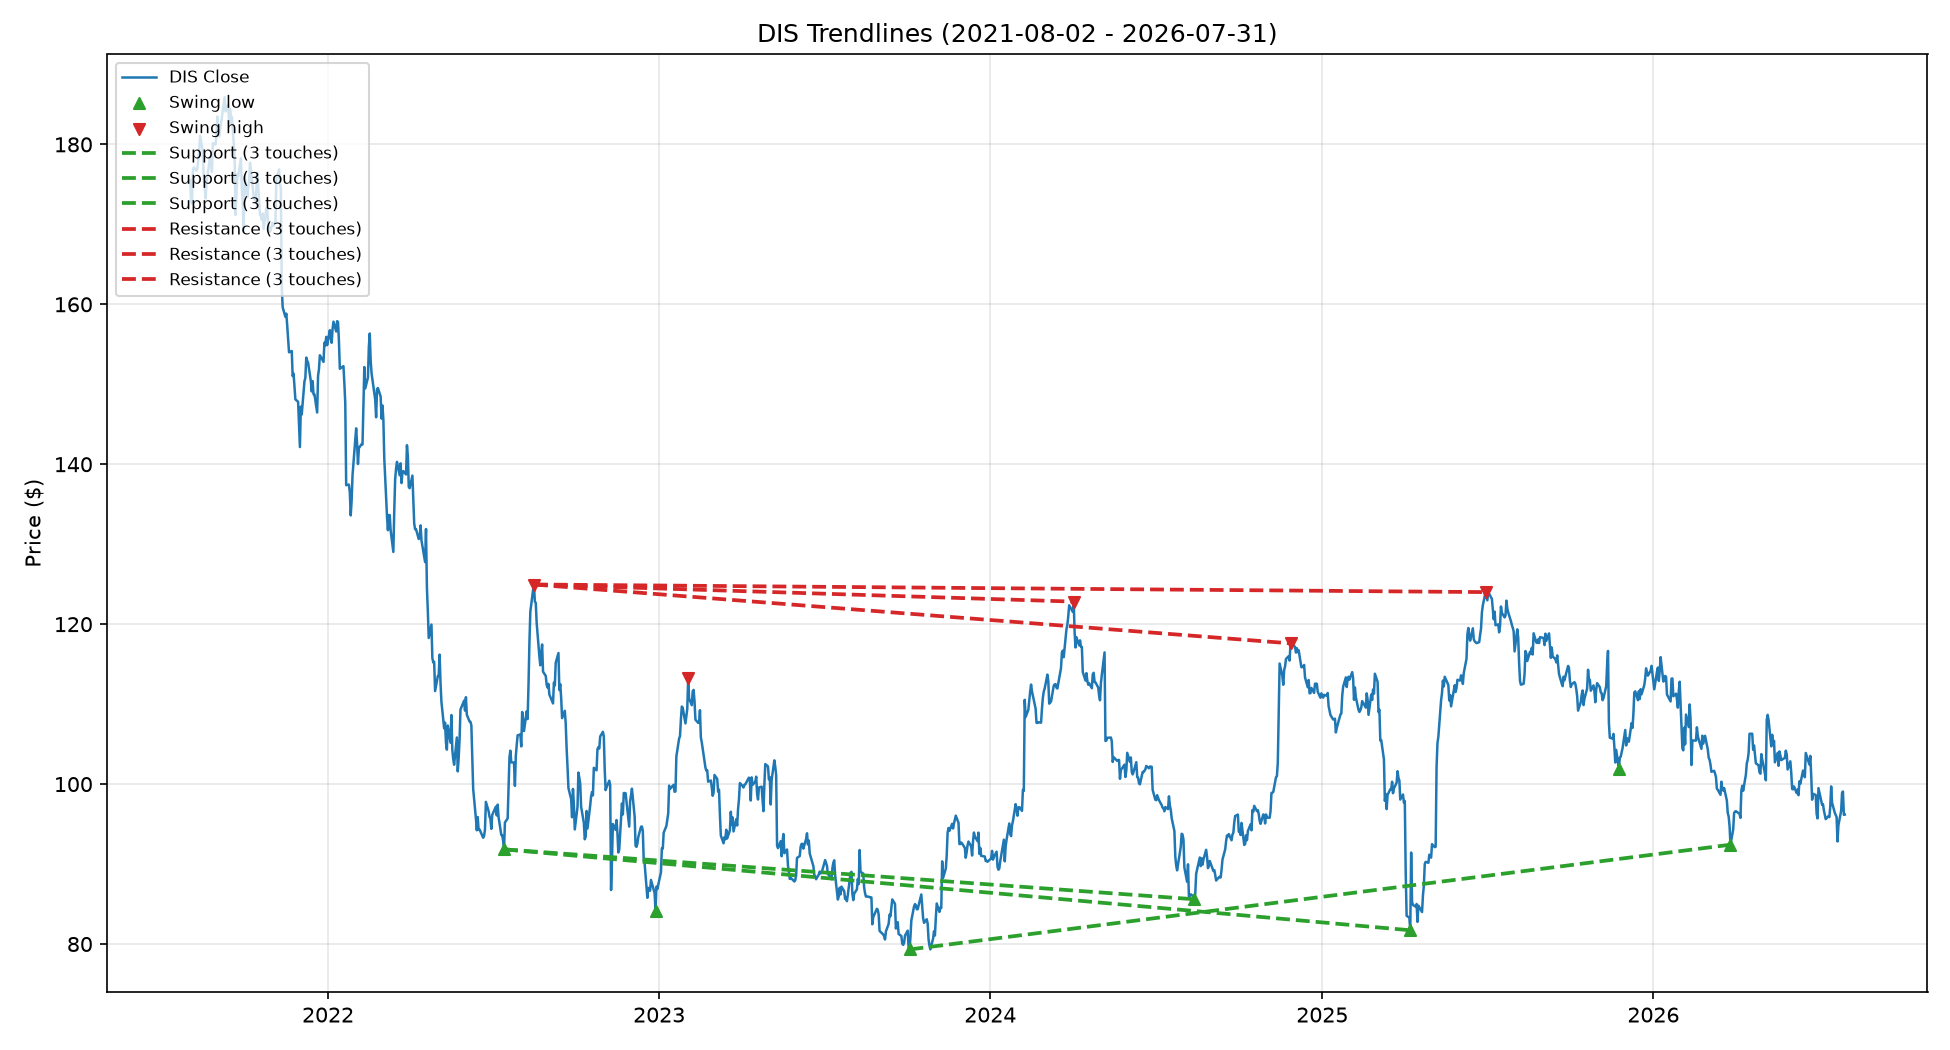
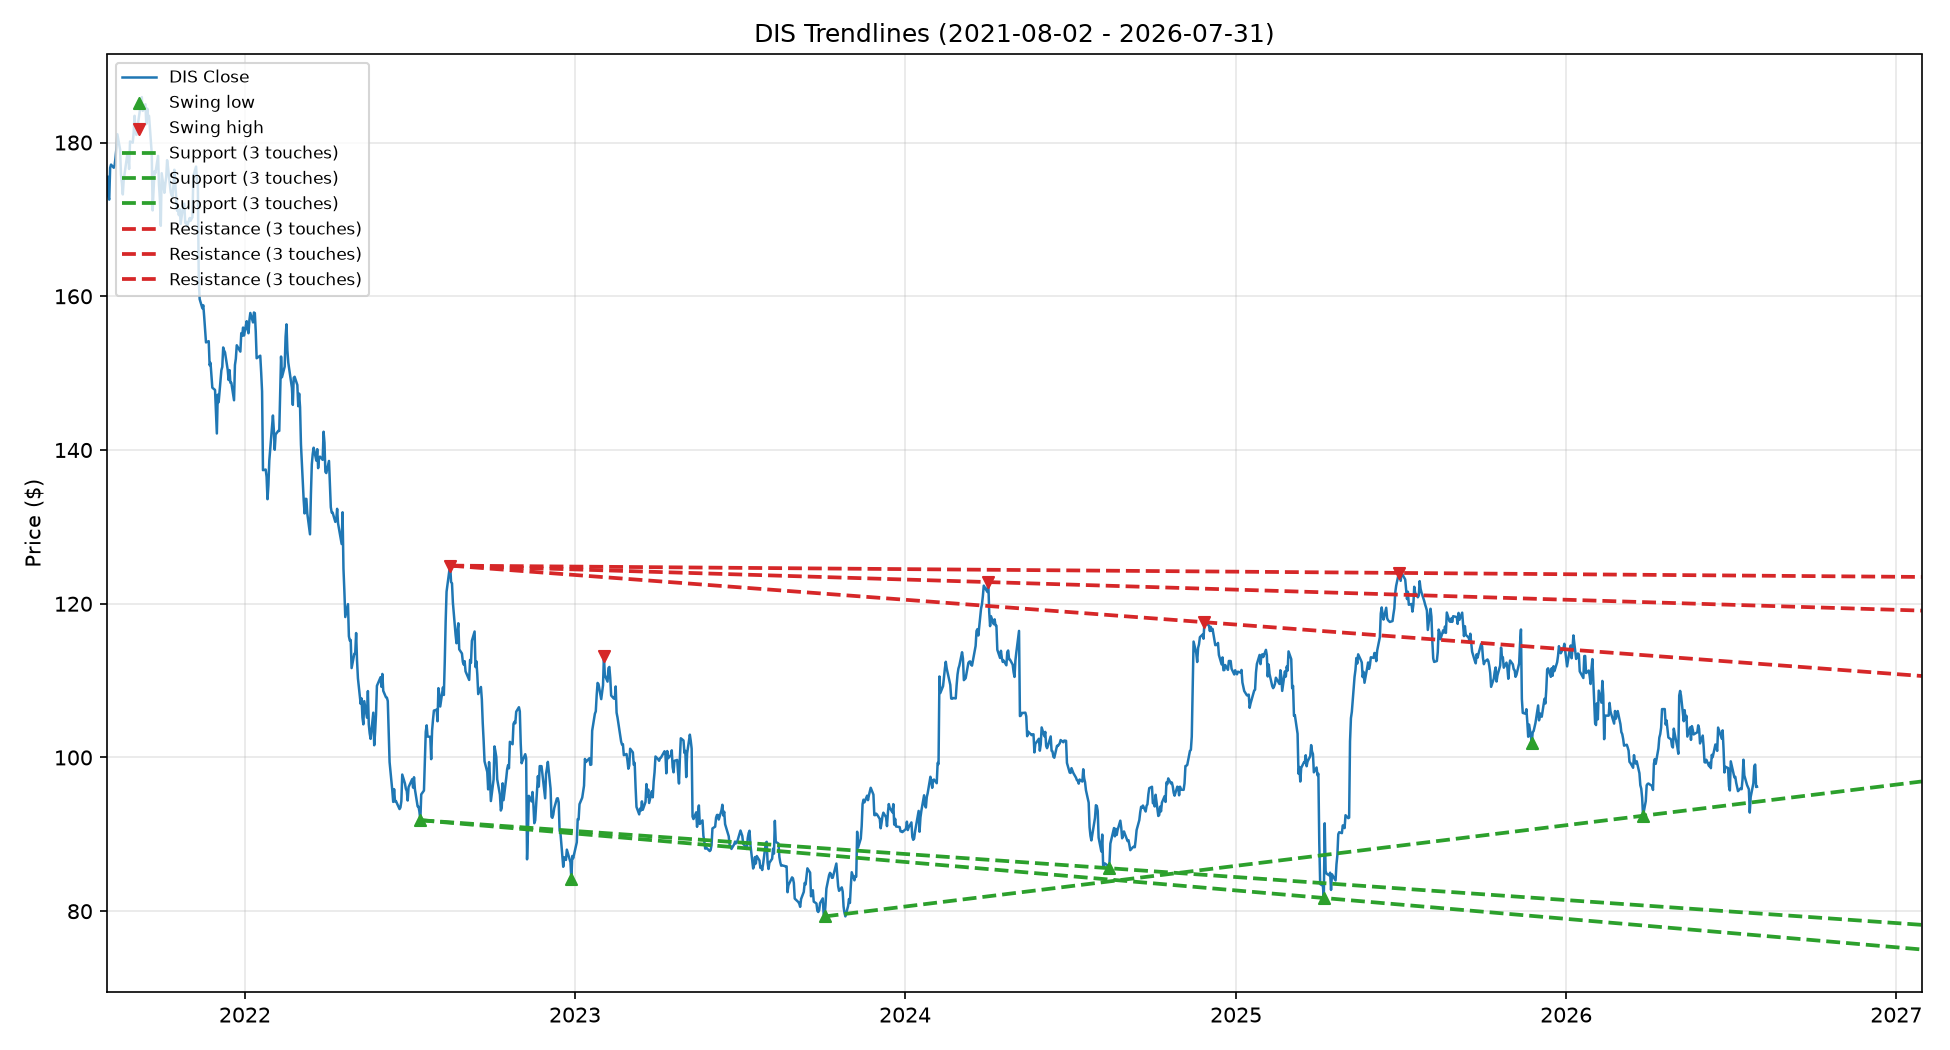
feat: extend trendlines to the right with forward projection

diff --git a/scripts/trendline_analysis.py b/scripts/trendline_analysis.py
@@ -97,21 +97,24 @@ if high_pts:
                color="#d62728", s=28, marker="v", zorder=5, label="Swing high")
 
 xmin, xmax = mdates.date2num(df["date"].iloc[0]), mdates.date2num(df["date"].iloc[-1])
+project_days = int(years * 365.25 * 0.1)
+x_extend = xmax + project_days
 for t in low_lines[:3]:
     touches, mdev, m, c, x1, y1, x2, y2 = t
-    xs = np.array([x1, x2])
+    xs = np.array([x1, x_extend])
     ys = m * xs + c
     ax.plot(mdates.num2date(xs), ys, color="#2ca02c", lw=1.8, ls="--",
             label=f"Support ({touches} touches)")
 for t in high_lines[:3]:
     touches, mdev, m, c, x1, y1, x2, y2 = t
-    xs = np.array([x1, x2])
+    xs = np.array([x1, x_extend])
     ys = m * xs + c
     ax.plot(mdates.num2date(xs), ys, color="#d62728", lw=1.8, ls="--",
             label=f"Resistance ({touches} touches)")
 
 ax.set_title(f"{symbol} Trendlines ({df['date'].iloc[0].date()} - {df['date'].iloc[-1].date()})")
 ax.set_ylabel("Price ($)")
+ax.set_xlim(mdates.num2date(xmin), mdates.num2date(x_extend))
 ax.legend(loc="upper left", fontsize=8)
 ax.grid(alpha=0.3)
 plt.tight_layout()
